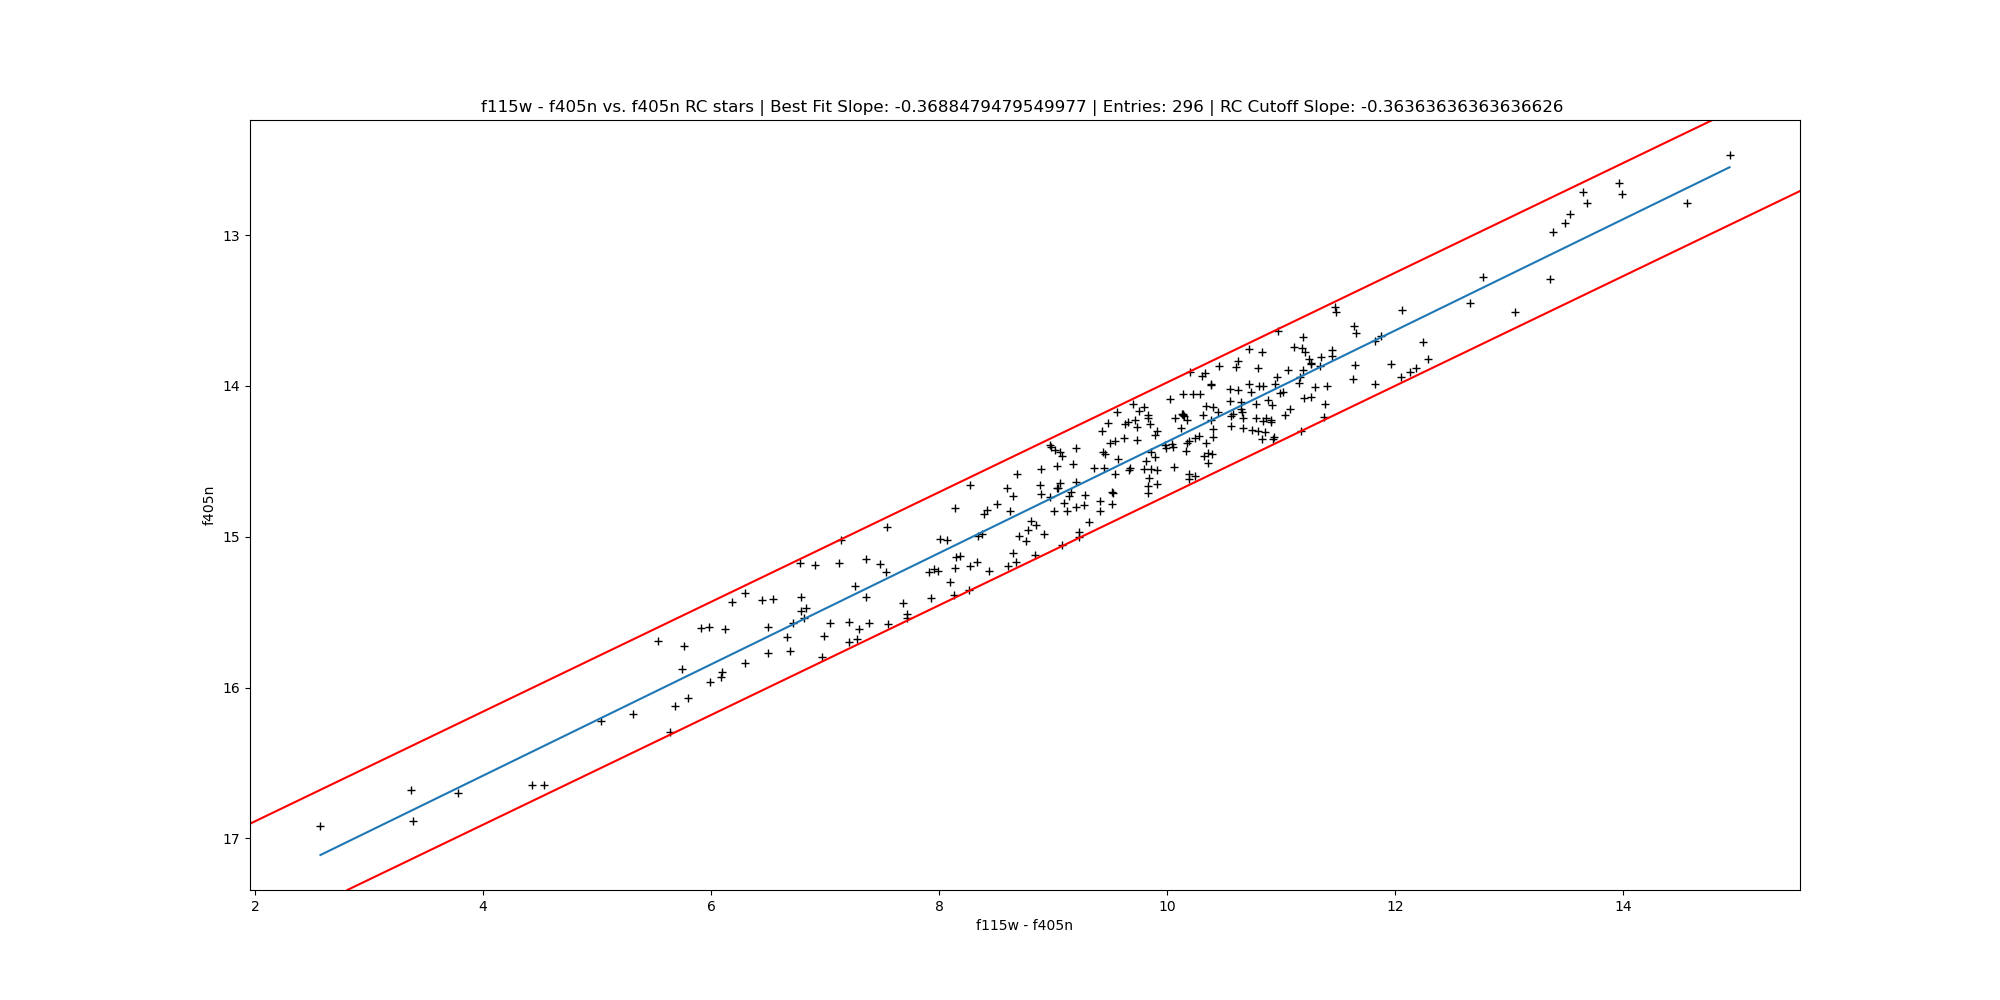
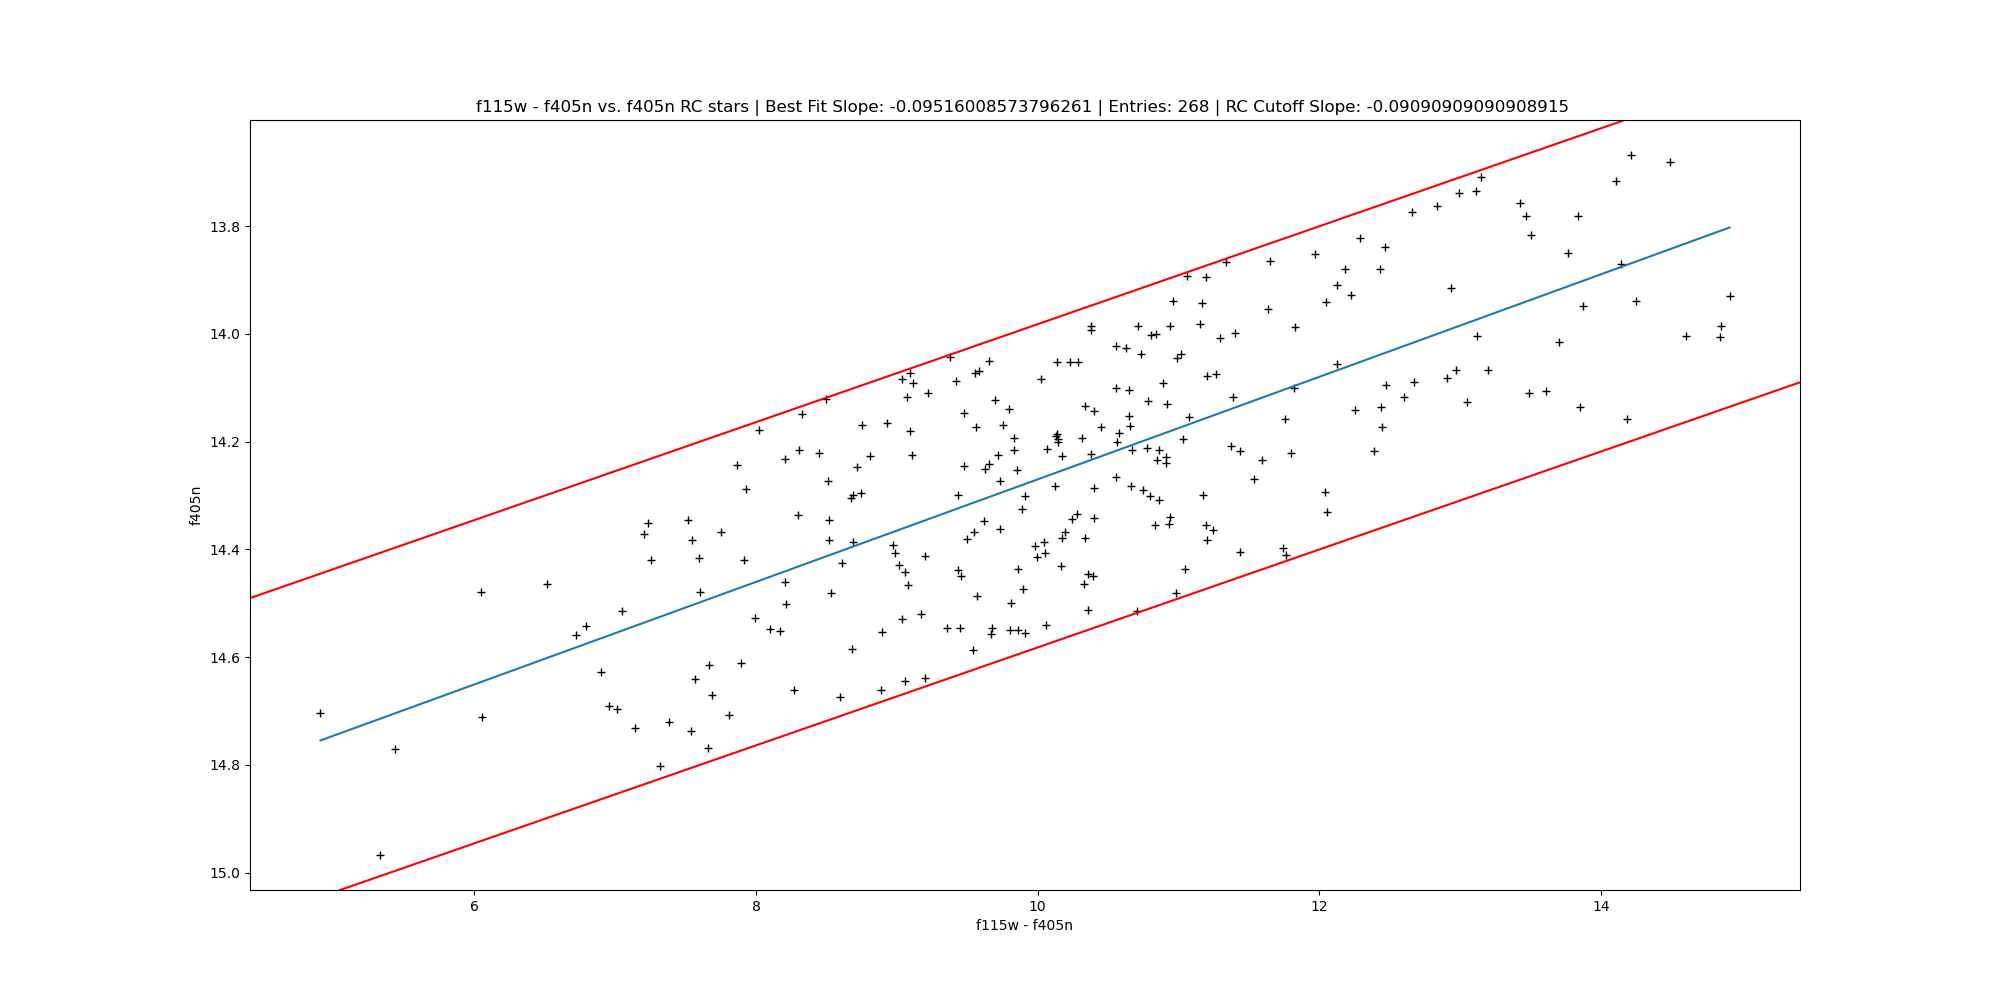
extinction transformations update

diff --git a/jwst_extinction/transformations.py b/jwst_extinction/transformations.py
@@ -198,7 +198,7 @@ color_mag_diagram_rcbar(m115405, m405115, m115405, 'f115w', 'f405n', 'f115w',
                         [10.35, 25.1], [9.5, 24.3], [10.35, 24.1], [9.5, 23.3], 100) 
 
 color_mag_diagram_rcbar(m115405, m405115, m405115, 'f115w', 'f405n', 'f405n',
-                        [10.35, 14.6], [9.8, 14.8], [10.35, 13.85], [9.8, 14.05], 100)
+                        [10.35, 14.55], [9.8, 14.6], [10.35, 13.95], [9.8, 14], 100)
 
 color_mag_diagram_rcbar(m115405212, m405115212, m212, 'f115w', 'f405n', 'f212n', 
                         [10, 17.7], [9, 17.6], [10, 16.8], [9, 16.7], 100)
